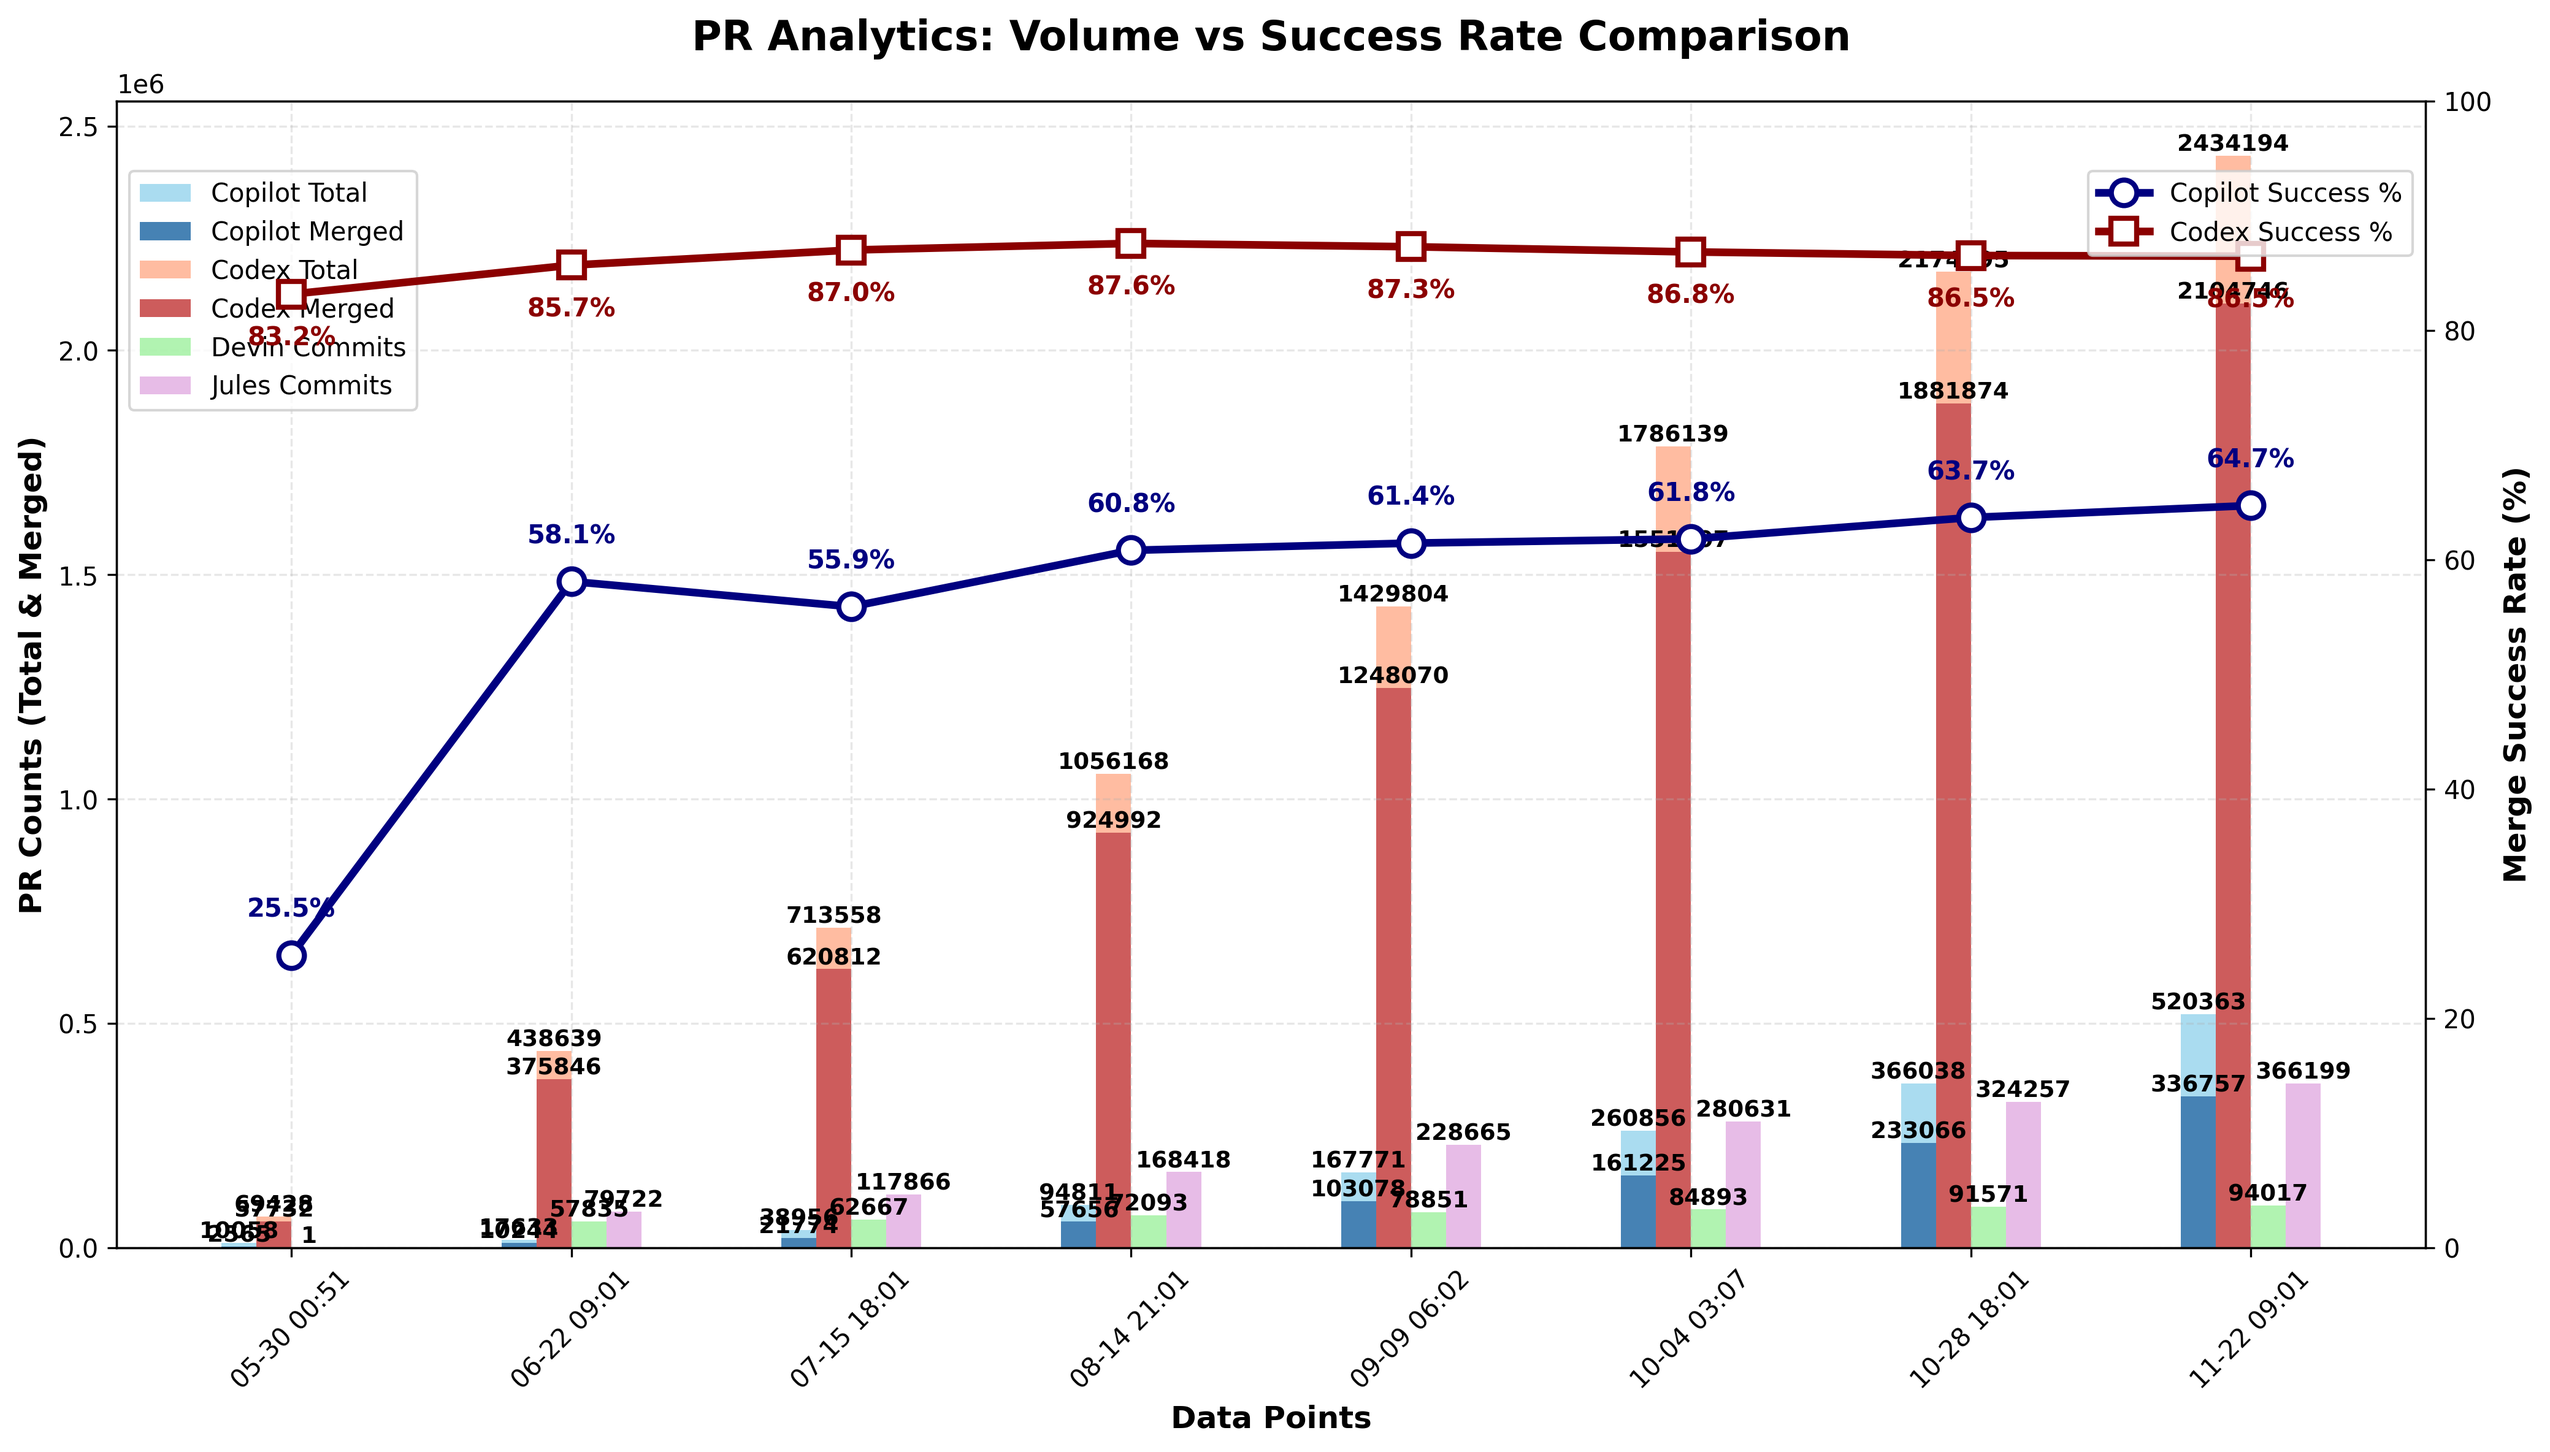
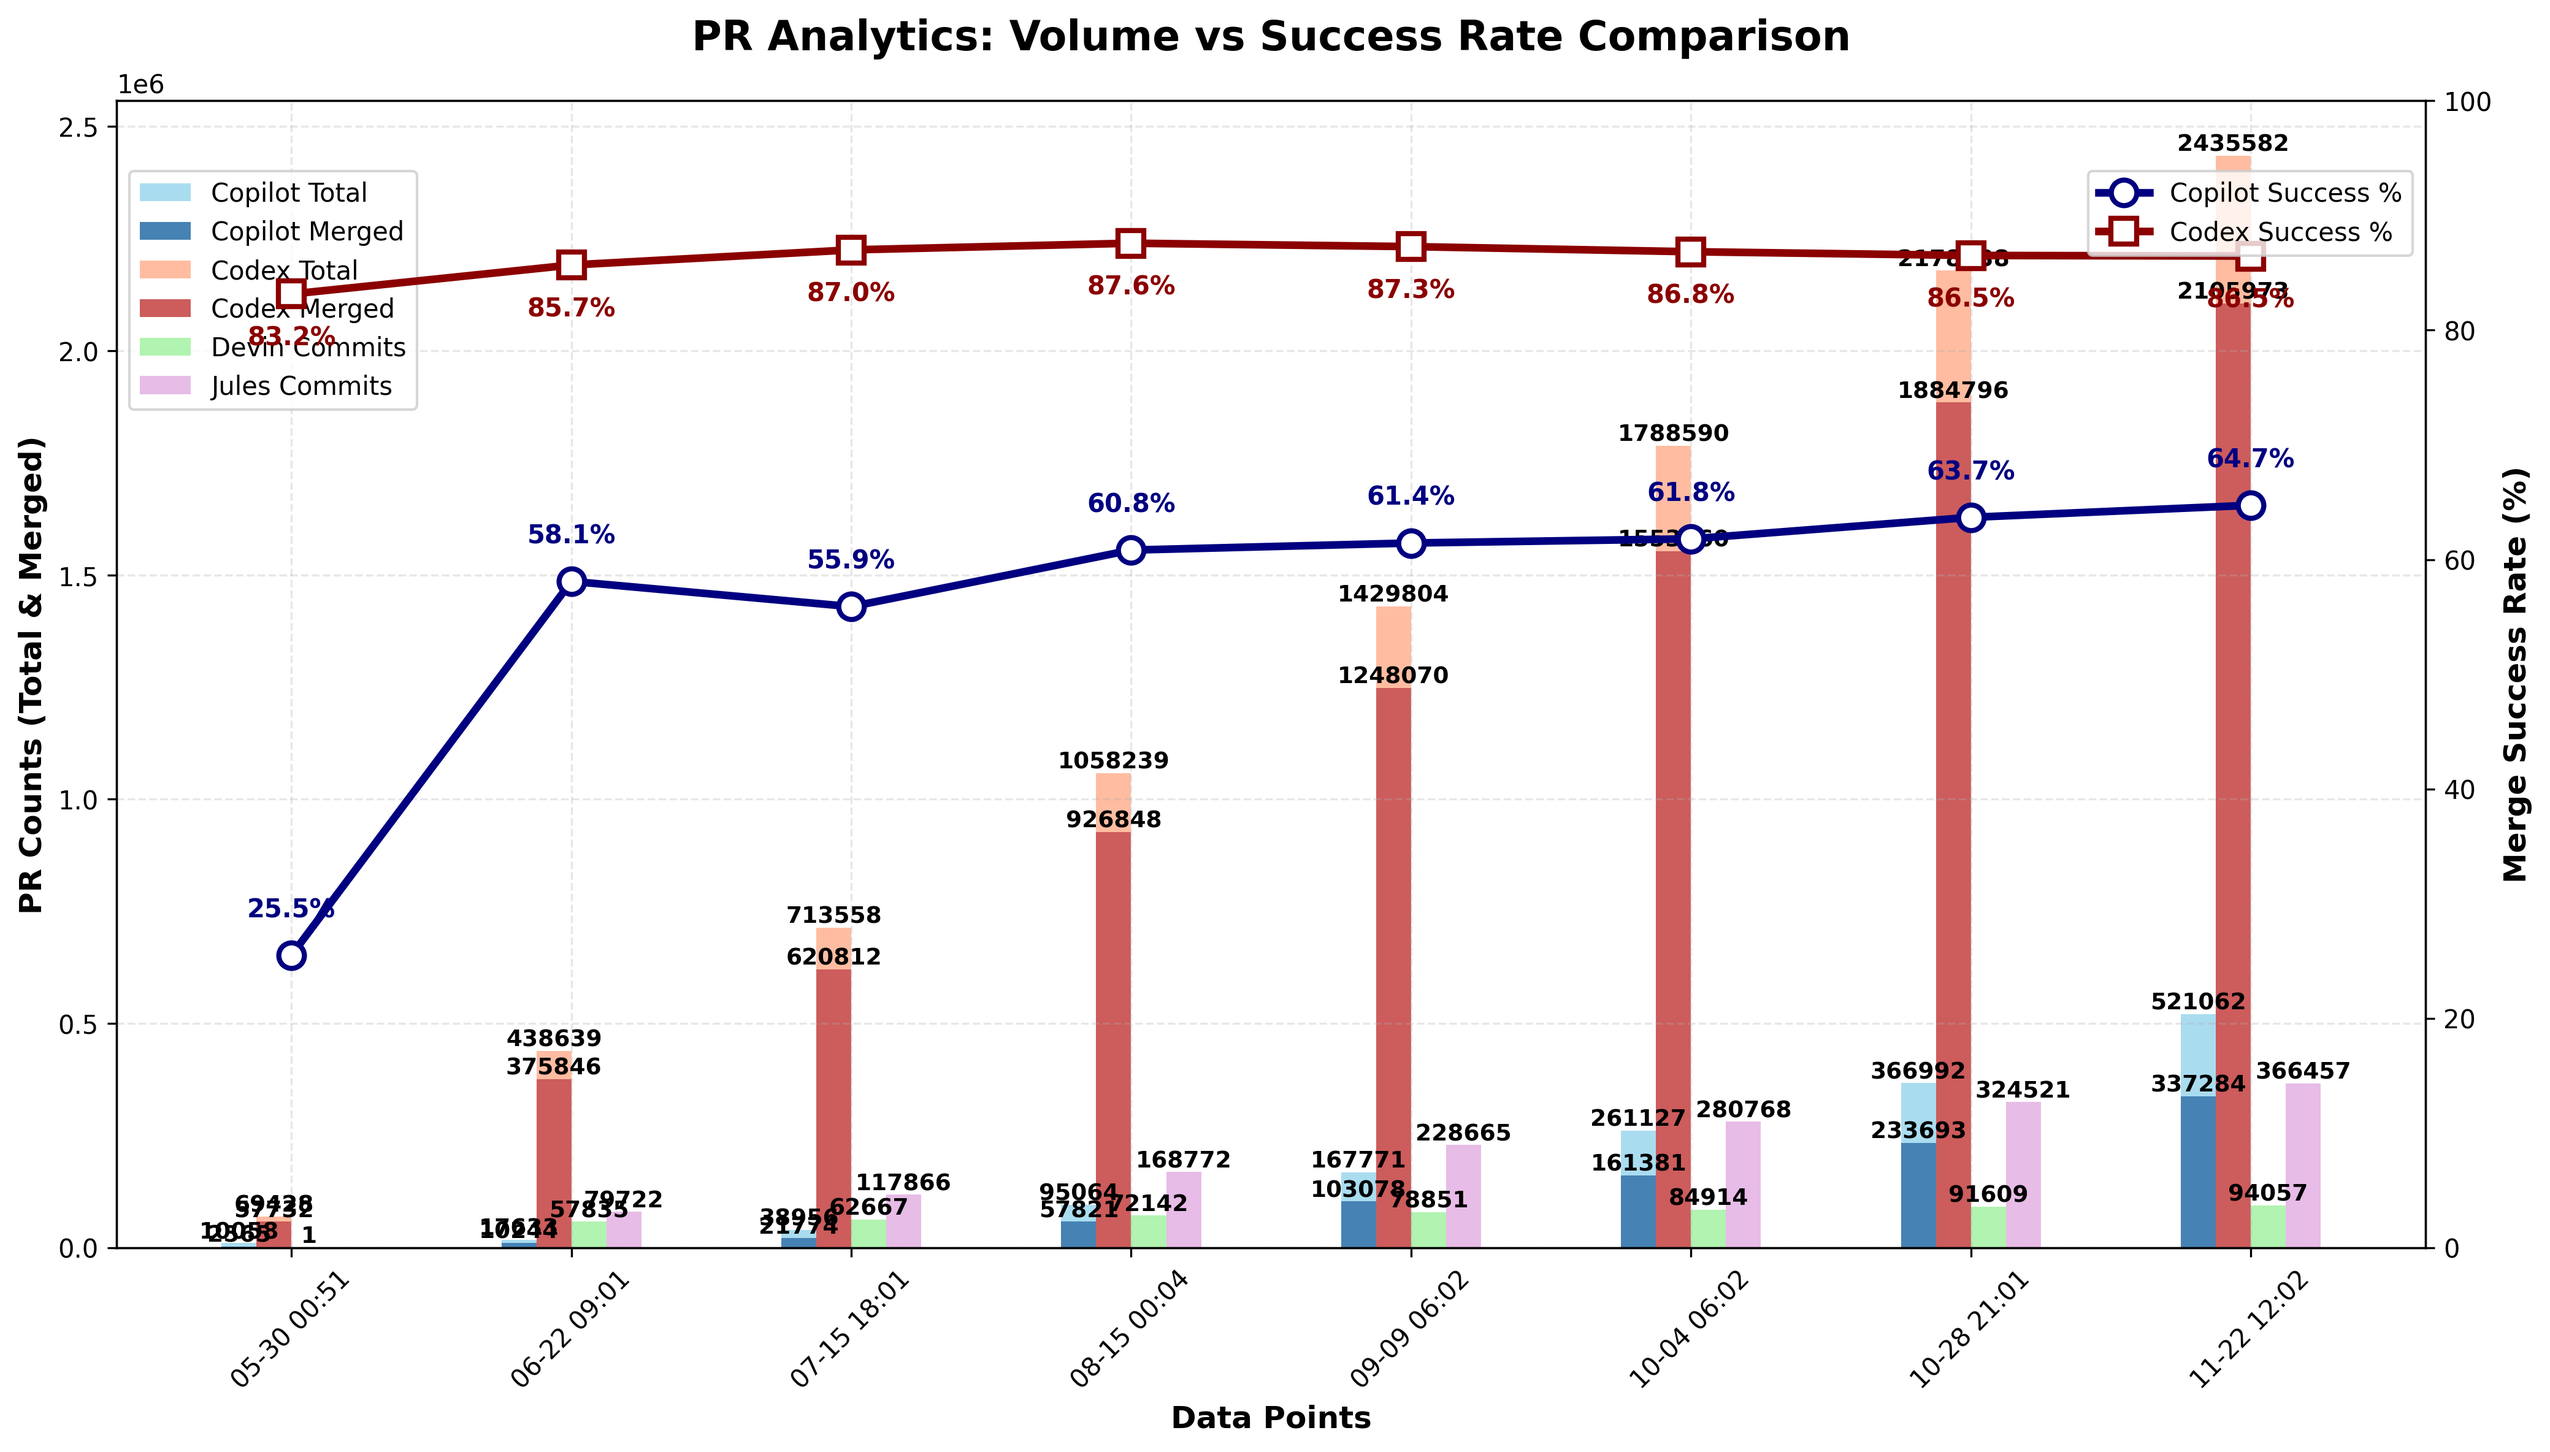
chore: update PR‑approval chart

diff --git a/docs/index.html b/docs/index.html
@@ -1354,6 +1354,7 @@
                         <td>N/A</td>
                         <td>N/A</td>
                         <td>N/A</td>
+                        <td>N/A</td>
                     </tr>
                     <tr>
                         <td>Codex</td>
@@ -2666,27 +2667,28 @@
                         <td>N/A</td>
                         <td>N/A</td>
                         <td>N/A</td>
+                        <td>N/A</td>
                     </tr>
                 <tr>
                         <td>Devin</td>
                         <td>N/A</td>
                         <td>N/A</td>
                         <td>N/A</td>
-                        <td>94,017</td>
+                        <td>94,057</td>
                     </tr>
                     <tr>
                         <td>Jules</td>
                         <td>N/A</td>
                         <td>N/A</td>
                         <td>N/A</td>
-                        <td>366,199</td>
+                        <td>366,457</td>
                     </tr>
                     </tbody>
             </table>
         </section>
 
         <footer>
-            <p>Last updated: <span id="last-updated">November 22, 2025 09:01 UTC</span></p>
+            <p>Last updated: <span id="last-updated">November 22, 2025 12:02 UTC</span></p>
             <p><a href="https://github.com/aavetis/ai-pr-watcher">View on GitHub</a></p>
         </footer>
     </div>

diff --git a/README.md b/README.md
@@ -19,7 +19,7 @@ Explore the GitHub search queries used:
 
 | Service | Total PRs | Merged PRs | Merge Rate | Total Commits |
 | ------- | --------- | ---------- | ---------- | ------------- |
-| Copilot | 520,363 | 336,757 | 64.72% | N/A           |
-| Codex   | 2,434,194 | 2,104,746 | 86.47% | N/A           |
-| Devin   | N/A       | N/A        | N/A        | 94,017 |
-| Jules   | N/A       | N/A        | N/A        | 366,199 |
+| Copilot | 521,062 | 337,284 | 64.73% | N/A           |
+| Codex   | 2,435,582 | 2,105,973 | 86.47% | N/A           |
+| Devin   | N/A       | N/A        | N/A        | 94,057 |
+| Jules   | N/A       | N/A        | N/A        | 366,457 |
